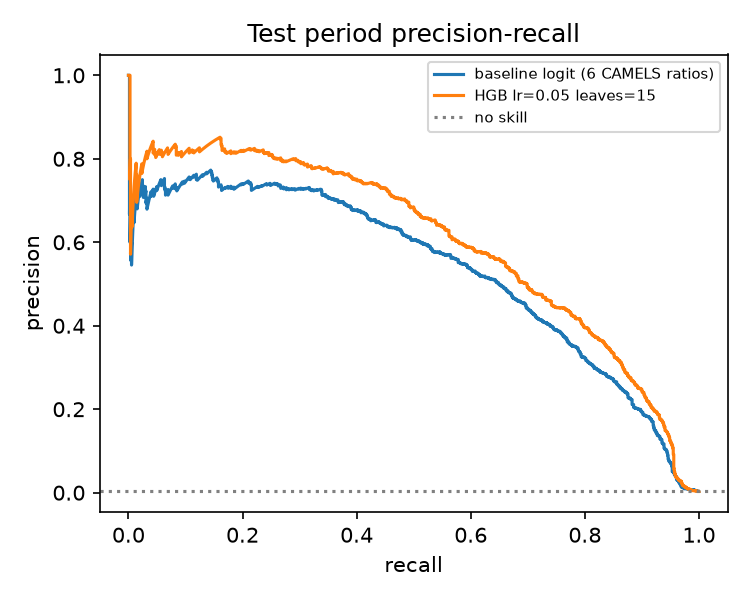
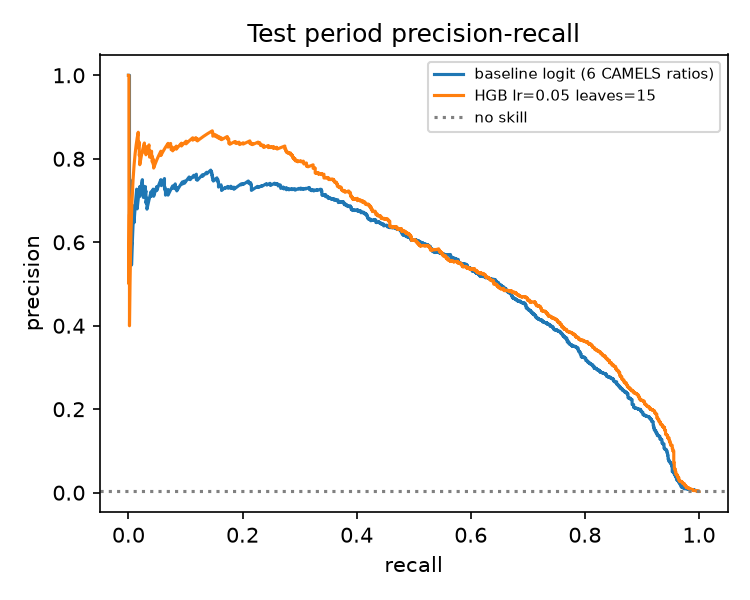
fix: deterministic feature row order; risk-score chart in predict.py
Polars joins do not keep row order, and HistGradientBoosting bins on a row subsample, so reruns of p5 gave slightly different HGB results (test PR-AUC 0.582 / 0.600). p4 now sorts the feature table by CERT, REPDTE; two consecutive reruns are identical. Part 5 outputs regenerated from the deterministic run (same selected model and threshold rule). predict.py accepts several CERTs and saves/opens a risk-score chart.

diff --git a/src/predict.py b/src/predict.py
@@ -1,16 +1,23 @@
 """Try the early-warning model (the HGB chosen in Part 5, trained on the development period only).
 
     python src/predict.py                 # 20 riskiest banks in the latest quarter (2026Q2)
-    python src/predict.py --cert 31027    # risk-score history of one bank
-Scores from 2010 on are out-of-sample (the model never saw those years).
+    python src/predict.py --cert 31027    # risk-score history of one bank (+ chart)
+    python src/predict.py --cert 1252 24735 628   # several banks, one line each on the chart
+Scores from 2009 on are out-of-sample (the model never saw those years).
+The chart is saved to outputs/risk_<certs>.png and opened.
 """
 from __future__ import annotations
 
 import argparse
 import json
+import os
 
 import joblib
+import matplotlib
 import polars as pl
+
+matplotlib.use("Agg")
+import matplotlib.pyplot as plt  # noqa: E402
 
 from common import LAKE, OUT, PROC, ROOT
 from features import build_features
@@ -37,9 +44,47 @@ def threshold() -> float:
     return float(row.split("|")[3])
 
 
+PAL = ["#D55E00", "#0072B2", "#009E73", "#E69F00", "#CC79A7", "#56B4E9", "#000000"]  # Okabe-Ito
+STYLES = ["-", "--", "-.", ":"]
+
+
+def plot(res: pl.DataFrame, t: float, certs: list[int]):
+    """One line per bank: risk score over time, failure dates, alarm threshold, out-of-sample shading."""
+    fails = (pl.read_parquet(LAKE / "failures.parquet").filter(pl.col("RESTYPE") == "FAILURE")
+             .group_by("CERT").agg(pl.col("FAILDATE").max()))
+    dev_end = json.loads((OUT / "p4_meta.json").read_text())["dev_end"]
+    fig, ax = plt.subplots(figsize=(9, 3.8))
+    ax.axvspan(pl.Series([dev_end]).str.to_date()[0], res["REPDTE"].max(), color="0.93", zorder=0,
+               label="ngoài mẫu train (mô hình chưa thấy)")
+    ax.axhline(t * 100, color="0.35", lw=1, ls=":", label=f"ngưỡng cảnh báo {t*100:.2f}%")
+    for i, cert in enumerate(certs):
+        d = res.filter(pl.col("CERT") == cert).sort("REPDTE")
+        if d.is_empty():
+            print(f"CERT {cert}: không có trong dữ liệu")
+            continue
+        col, ls = PAL[i % len(PAL)], STYLES[i % len(STYLES)]
+        fd = fails.filter(pl.col("CERT") == cert)["FAILDATE"]
+        label = f"{d['NAME'][0]} (CERT {cert}"
+        label += f", phá sản {fd[0]:%d/%m/%Y})" if len(fd) else ", chưa phá sản)"
+        ax.plot(d["REPDTE"], d["risk_raw"].clip(0.005, None), ls=ls, marker="o", ms=2.5, lw=1.6,
+                color=col, label=label)
+        if len(fd):
+            ax.axvline(fd[0], color=col, lw=1, ls=ls)
+    ax.set_yscale("log")
+    ax.set_ylabel("điểm rủi ro, % (thang log)")
+    ax.set_title("Điểm rủi ro phá sản trong 12 tháng tới, theo quý")
+    ax.spines[["top", "right"]].set_visible(False)
+    ax.legend(fontsize=8, frameon=False, loc="upper left")
+    fig.tight_layout()
+    path = OUT / f"risk_{'_'.join(map(str, certs))}.png"
+    fig.savefig(path, dpi=150, facecolor="white")
+    plt.close(fig)
+    return path
+
+
 def main() -> None:
     ap = argparse.ArgumentParser()
-    ap.add_argument("--cert", type=int)
+    ap.add_argument("--cert", type=int, nargs="+", help="one or more CERT codes")
     ap.add_argument("--top", type=int, default=20)
     a = ap.parse_args()
 
@@ -48,17 +93,23 @@ def main() -> None:
     t = threshold()
     # peer ranks / state shares need every bank of the quarter -> build on all, filter after
     f = build_features(pl.scan_parquet(PROC / "panel.parquet")).collect()
-    f = f.filter(pl.col("CERT") == a.cert) if a.cert else f.filter(pl.col("REPDTE") == f["REPDTE"].max())
+    f = f.filter(pl.col("CERT").is_in(a.cert)) if a.cert else f.filter(pl.col("REPDTE") == f["REPDTE"].max())
     names = pl.read_parquet(LAKE / "institutions.parquet").select("CERT", "NAME")
     s = model.predict_proba(f.select(feats).to_numpy())[:, 1]
-    res = (f.with_columns(pl.Series("risk_%", s * 100).round(2), pl.Series("alarm", s >= t))
+    res = (f.with_columns(pl.Series("risk_%", s * 100).round(2), pl.Series("risk_raw", s * 100),
+                          pl.Series("alarm", s >= t))
            .join(names, on="CERT", how="left")
            .with_columns((pl.col("ASSET") / 1e6).round(2).alias("ASSET"),   # $ billion
                          pl.col("cap_eq_ta", "aq_noncurrent", "earn_roa").round(2)))
-    res = res.sort("REPDTE") if a.cert else res.sort("risk_%", descending=True).head(a.top)
-    with pl.Config(tbl_rows=200, tbl_cols=20, tbl_width_chars=200, fmt_str_lengths=30):
+    res = res.sort("CERT", "REPDTE") if a.cert else res.sort("risk_%", descending=True).head(a.top)
+    with pl.Config(tbl_rows=1000, tbl_cols=20, tbl_width_chars=200, fmt_str_lengths=30):
         print(f"alarm threshold = {t*100:.2f}%  (ASSET in $ billion, ratios in %)")
         print(res.select(SHOW))
+    if a.cert:
+        path = plot(res, t, a.cert)
+        print(f"chart saved: {path}")
+        if hasattr(os, "startfile"):
+            os.startfile(path)  # ponytail: Windows only; elsewhere just open the saved PNG
 
 
 if __name__ == "__main__":

diff --git a/src/p4_features.py b/src/p4_features.py
@@ -50,6 +50,9 @@ def main() -> None:
     ft = (build_features(panel.lazy())
           .filter(pl.col("label_complete"))
           .with_columns(split_expr().alias("split"))
+          # joins do not keep row order in Polars 2; HistGradientBoosting bins on a row
+          # subsample, so a fixed order is needed for identical results on every rerun
+          .sort("CERT", "REPDTE")
           .collect())
     feats = feature_names(ft)
     keep = ["CERT", "REPDTE", "q", "STNAME", "y", "split", "ASSET", "_next_fail_date", *feats]

diff --git a/outputs/p5_threshold_dev.md b/outputs/p5_threshold_dev.md
@@ -6,7 +6,7 @@
 | baseline logit (6 CAMELS ratios) | 0.01                                   | 0.3125    | 16322  | 1452 | 14870 | 222 | 0.8674 | 0.089     | 370.7           |
 | baseline logit (6 CAMELS ratios) | 0.02                                   | 0.5031    | 8422   | 1331 | 7091  | 343 | 0.7951 | 0.158     | 484.82          |
 | baseline logit (6 CAMELS ratios) | 0.05                                   | 0.5466    | 7492   | 1303 | 6189  | 371 | 0.7784 | 0.1739    | 680.45          |
-| HGB lr=0.05 leaves=15            | 0.005                                  | 0.0019    | 26547  | 1538 | 25009 | 136 | 0.9188 | 0.0579    | 261.045         |
-| HGB lr=0.05 leaves=15            | 0.01                                   | 0.0045    | 15858  | 1469 | 14389 | 205 | 0.8775 | 0.0926    | 348.89          |
-| HGB lr=0.05 leaves=15            | 0.02                                   | 0.011     | 9816   | 1386 | 8430  | 288 | 0.828  | 0.1412    | 456.6           |
-| HGB lr=0.05 leaves=15            | 0.05                                   | 0.0285    | 6098   | 1273 | 4825  | 401 | 0.7605 | 0.2088    | 642.25          |
+| HGB lr=0.05 leaves=15            | 0.005                                  | 0.002     | 25617  | 1546 | 24071 | 128 | 0.9235 | 0.0604    | 248.355         |
+| HGB lr=0.05 leaves=15            | 0.01                                   | 0.0055    | 13999  | 1448 | 12551 | 226 | 0.865  | 0.1034    | 351.51          |
+| HGB lr=0.05 leaves=15            | 0.02                                   | 0.0099    | 10281  | 1395 | 8886  | 279 | 0.8333 | 0.1357    | 456.72          |
+| HGB lr=0.05 leaves=15            | 0.05                                   | 0.04      | 5168   | 1228 | 3940  | 446 | 0.7336 | 0.2376    | 643.0           |

diff --git a/outputs/p5_cv.md b/outputs/p5_cv.md
@@ -3,8 +3,8 @@
 | model                            | n_features | PR-AUC | ROC-AUC | recall@top5% | Brier  |
 |----------------------------------|------------|--------|---------|--------------|--------|
 | baseline logit (6 CAMELS ratios) | 6          | 0.2361 | 0.9699  | 0.807        | 0.0147 |
-| logit, all features              | 43         | 0.2474 | 0.9697  | 0.8142       | 0.0083 |
-| HGB lr=0.05 leaves=15            | 43         | 0.434  | 0.9828  | 0.8387       | 0.0022 |
-| HGB lr=0.05 leaves=31            | 43         | 0.4204 | 0.9821  | 0.8351       | 0.0022 |
-| HGB lr=0.1 leaves=15             | 43         | 0.4092 | 0.9818  | 0.8268       | 0.0023 |
-| HGB lr=0.1 leaves=31             | 43         | 0.3883 | 0.9805  | 0.8327       | 0.0023 |
+| logit, all features              | 43         | 0.2491 | 0.9703  | 0.8154       | 0.0084 |
+| HGB lr=0.05 leaves=15            | 43         | 0.4225 | 0.9826  | 0.8417       | 0.0022 |
+| HGB lr=0.05 leaves=31            | 43         | 0.4173 | 0.9826  | 0.8351       | 0.0022 |
+| HGB lr=0.1 leaves=15             | 43         | 0.3977 | 0.9812  | 0.8303       | 0.0023 |
+| HGB lr=0.1 leaves=31             | 43         | 0.3916 | 0.9807  | 0.8232       | 0.0023 |

diff --git a/outputs/p5_test_once.md b/outputs/p5_test_once.md
@@ -1,6 +1,6 @@
-### TEST period 2010-03-31 - 2025-06-30, scored once at 2026-11-06 17:39 (false-alarm cost = 0.01 x missed failure)
+### TEST period 2010-03-31 - 2025-06-30, scored once at 2026-11-06 18:53 (false-alarm cost = 0.01 x missed failure)
 
 | model                            | PR-AUC | ROC-AUC | recall@top5% | Brier  | threshold | alarms | TP   | FP    | FN | recall | precision | cost (missed=1) |
 |----------------------------------|--------|---------|--------------|--------|-----------|--------|------|-------|----|--------|-----------|-----------------|
 | baseline logit (6 CAMELS ratios) | 0.5356 | 0.9826  | 0.9324       | 0.0242 | 0.3125    | 17709  | 1057 | 16652 | 52 | 0.9531 | 0.0597    | 218.52          |
-| HGB lr=0.05 leaves=15            | 0.5998 | 0.9831  | 0.9432       | 0.0017 | 0.0045    | 10315  | 1059 | 9256  | 50 | 0.9549 | 0.1027    | 142.56          |
+| HGB lr=0.05 leaves=15            | 0.5776 | 0.985   | 0.9477       | 0.0018 | 0.0055    | 9472   | 1057 | 8415  | 52 | 0.9531 | 0.1116    | 136.15          |
